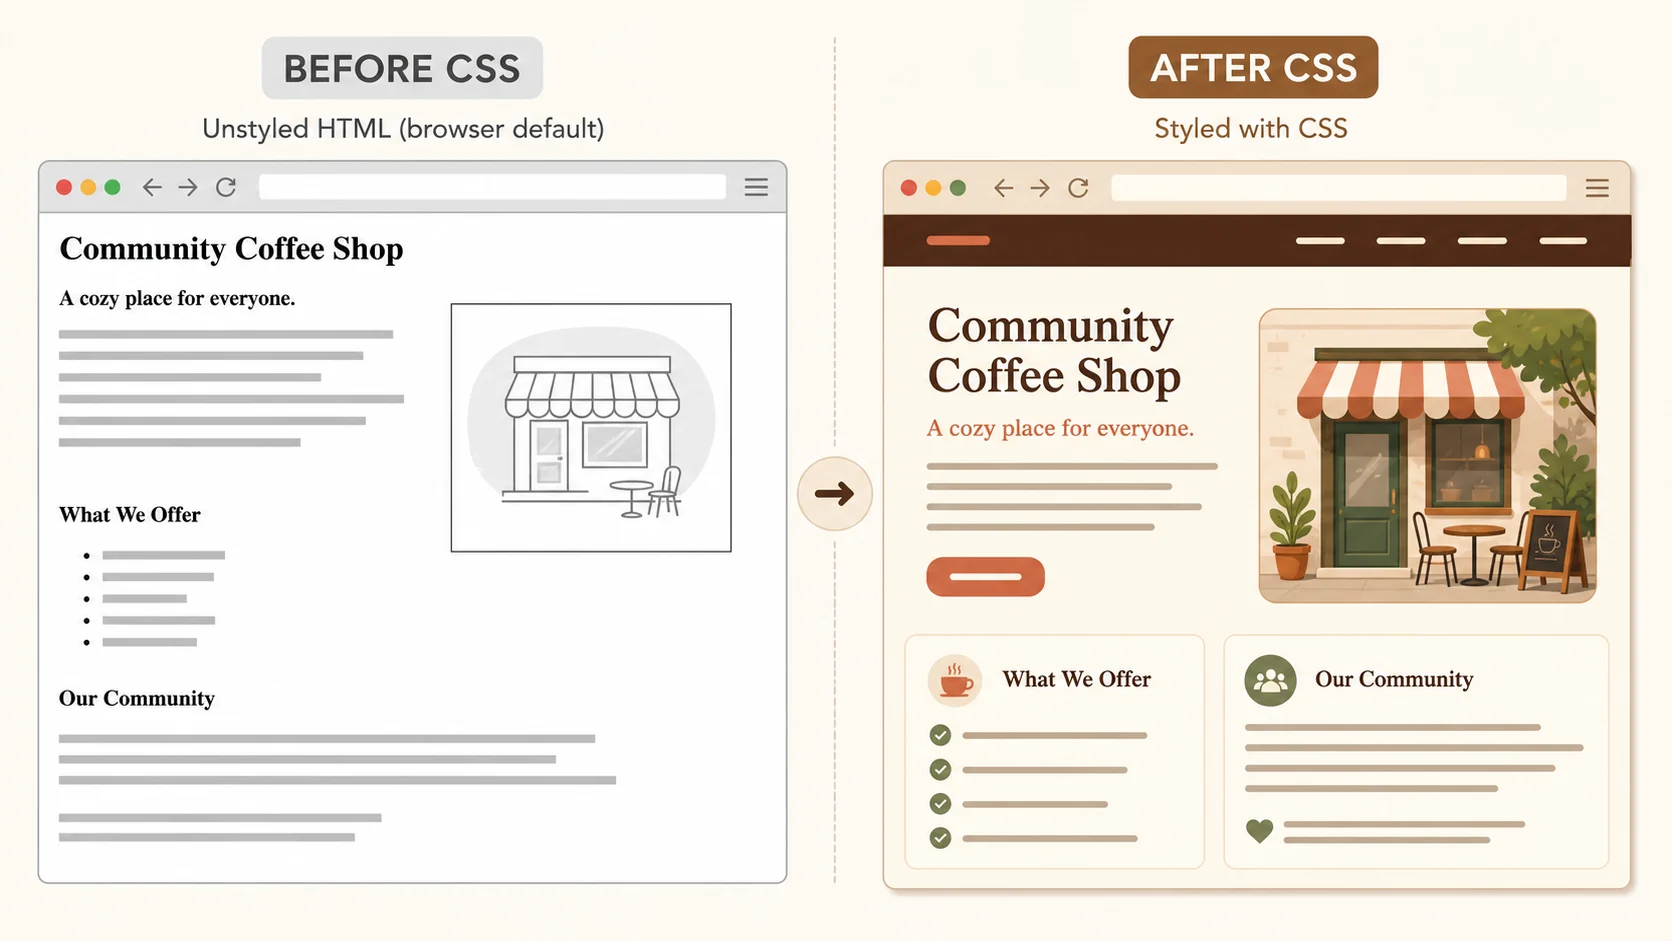
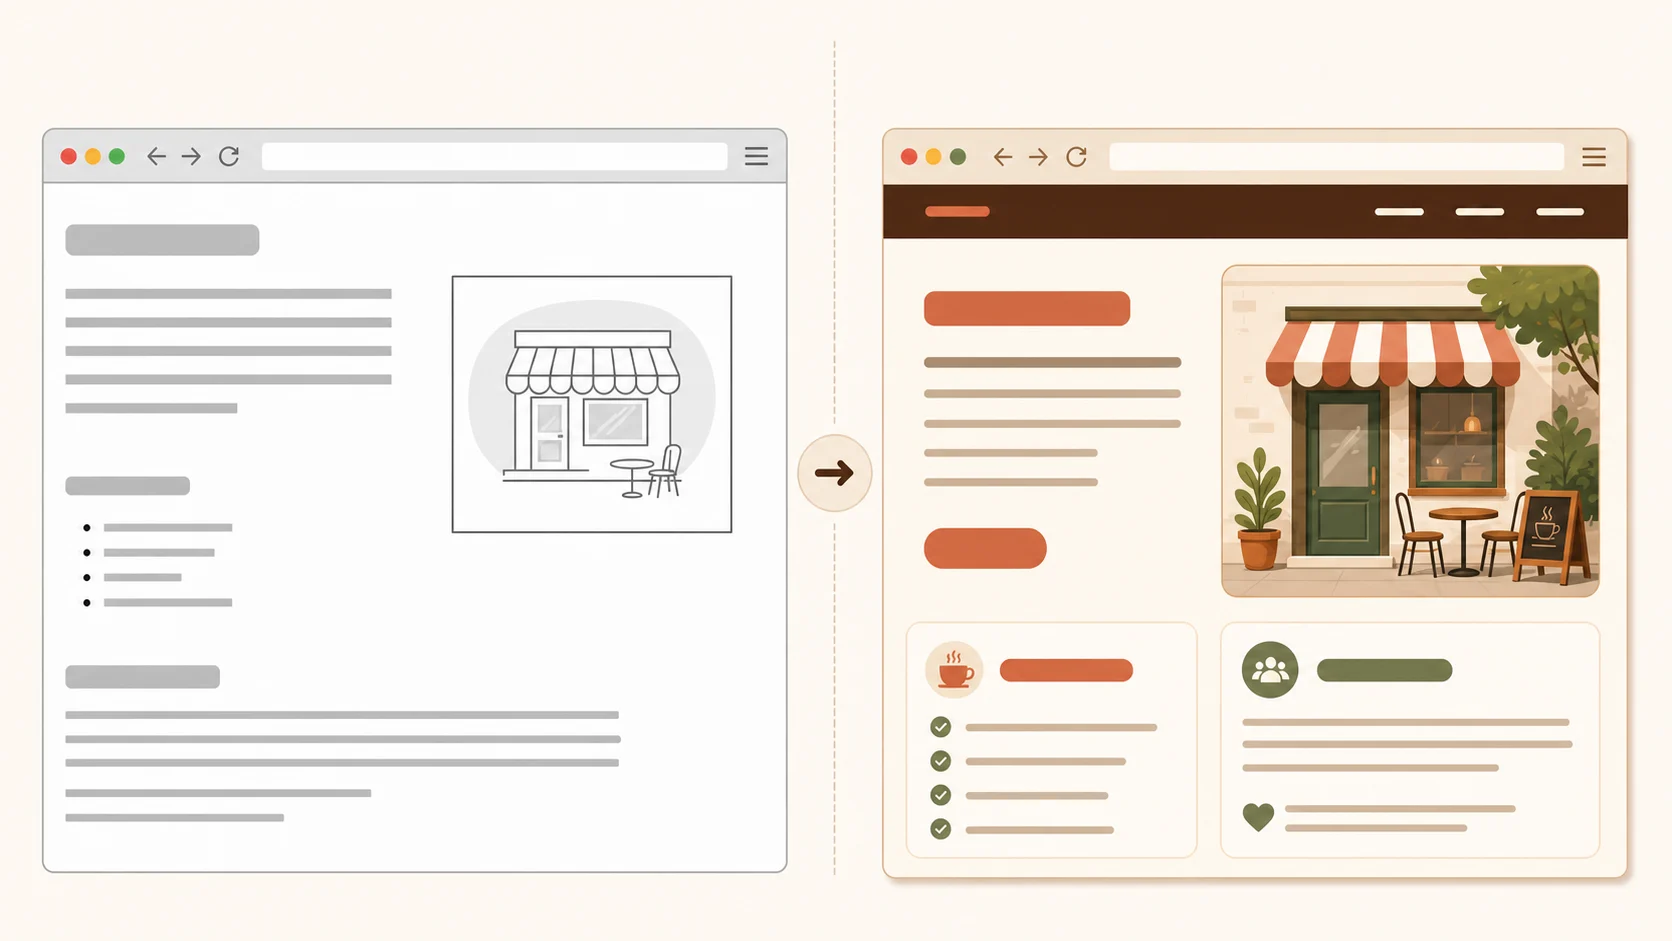
Update curriculum to enforce baseline commit workflow and prevent fabricated Git history
- Clarify in AGENTS.md, ARCHITECTURE.md, and CONTRIBUTING.md that "กาแฟบ้านดอย" remains constant in teaching lessons; brand customization happens only in the explicit Capstone without creating a second project
- Revise git/commit.md to create one baseline commit named "Import workshop website baseline" that reflects actual workshop state, with two additional commits coming from real Capstone work rather

diff --git a/docs/git/commit.md b/docs/git/commit.md
@@ -4,11 +4,11 @@ title: git commit และ git log
 
 # `git commit`: สร้างจุดบันทึกที่อธิบายได้
 
-> **บทเรียนหลัก (Core)** — เป้าหมายสุดท้ายคืออย่างน้อย 3 commit ที่สะท้อนพัฒนาการจริง
+> **บทเรียนหลัก (Core)** — บทนี้สร้าง baseline ที่ตรงกับสถานะจริง ส่วนอีก 2 commit จะเกิดจากงาน Capstone จริง
 
 ## เป้าหมาย
 
-เมื่อจบบทนี้ คุณจะตั้งผู้เขียน สร้าง commit ตรวจประวัติ และทำ milestone เพิ่มจนได้อย่างน้อย 3 จุดบันทึก
+เมื่อจบบทนี้ คุณจะตั้งผู้เขียน สร้าง baseline commit ตรวจประวัติ และวางจุดบันทึกอีก 2 จุดสำหรับงาน Capstone
 
 ## เริ่มจาก
 
@@ -26,7 +26,7 @@ git config --global user.email "[email redacted]"
 สร้าง commit แรก:
 
 ```bash
-git commit -m "Create semantic shop page"
+git commit -m "Import workshop website baseline"
 git status
 git log --oneline
 ```
@@ -34,45 +34,39 @@ git log --oneline
 ผลลัพธ์จะมีรหัส commit ที่ต่างกันในแต่ละเครื่อง:
 
 ```text
-[main a1b2c3d] Create semantic shop page
+[main a1b2c3d] Import workshop website baseline
 On branch main
 nothing to commit, working tree clean
-a1b2c3d (HEAD -> main) Create semantic shop page
+a1b2c3d (HEAD -> main) Import workshop website baseline
 ```
 
-### สร้าง milestone ที่ 2 และ 3
+### วาง milestone ที่ 2 และ 3 ไว้ในงานจริง
 
-หาก HTML และ CSS ทำเสร็จก่อนเริ่ม Git แล้ว ให้แก้ชิ้นงานเล็กน้อยแต่มีความหมายในแต่ละรอบ เช่น ปรับสี/spacing แล้วปรับ mobile layout จากนั้นใช้วงจรเดิม:
+อย่าแก้ CSS เพื่อสร้างประวัติย้อนหลัง หลังเรียน GitHub และ push แล้ว ให้ทำ [Capstone](/workshop/project) เป็นสองช่วงและ commit เมื่อแต่ละช่วงผ่าน checkpoint:
 
-```bash
-git diff
-git add style.css
-git diff --cached
-git commit -m "Style shop layout"
+```text
+ช่วงที่ 1 เปลี่ยนชื่อ คำโปรย เมนู และช่องทางติดต่อ
+→ Customize brand content
+
+ช่วงที่ 2 ปรับสี ระยะห่าง ภาพ และ responsive layout
+→ Refine theme and mobile layout
 ```
 
-แก้ media query หรือภาพให้ไม่ล้นจอ แล้วบันทึกอีกครั้ง:
-
-```bash
-git diff
-git add style.css
-git commit -m "Improve mobile layout"
-git log --oneline --decorate -3
-```
+เมื่อทำครบแล้วจึงตรวจประวัติจริงด้วย `git log --oneline --decorate -3` และ push รอบสุดท้าย
 
 ::: info Commit ที่ดีมีขอบเขตเดียว
-ข้อความ `Update files` ไม่บอกเหตุผล ส่วน `Improve mobile layout` บอกผู้ตรวจได้ว่าควรคาดหวังการเปลี่ยนแปลงชนิดใด
+ข้อความ `Update files` ไม่บอกเหตุผล ส่วน `Customize brand content` บอกผู้ตรวจได้ว่าควรคาดหวังการเปลี่ยนแปลงชนิดใด
 :::
 
 ## ผลที่ควรเห็น
 
-`git log --oneline --decorate -3` แสดงอย่างน้อย 3 บรรทัด และบรรทัดบนสุดมี `(HEAD -> main)`
+หลังจบบทนี้ `git log --oneline` แสดง baseline 1 บรรทัด หลังจบ Capstone จะแสดงอย่างน้อย 3 บรรทัด และบรรทัดบนสุดมี `(HEAD -> main)`
 
 ## Checkpoint
 
 - [ ] `git status` แสดง `working tree clean`
-- [ ] `git log --oneline -3` มีอย่างน้อย 3 commit
-- [ ] แต่ละข้อความอธิบายงานหนึ่งเรื่อง ไม่ใช่ `test`, `update` หรือ `final`
+- [ ] baseline ใช้ชื่อ `Import workshop website baseline` ซึ่งตรงกับสิ่งที่บันทึกจริง
+- [ ] จดแผน commit อีก 2 จุดสำหรับงาน Capstone โดยไม่สร้างการเปลี่ยนแปลงปลอม
 
 หากเห็น `nothing to commit` ในเวลาที่คาดว่ามีงาน ให้ดู [Nothing to commit](/workshop/troubleshooting#nothing-to-commit)
 
@@ -80,4 +74,3 @@ git log --oneline --decorate -3
 
 - [Git 2.54: git-commit](https://git-scm.com/docs/git-commit)
 - [Git 2.54: git-log](https://git-scm.com/docs/git-log)
-

diff --git a/docs/git/push.md b/docs/git/push.md
@@ -39,15 +39,15 @@ branch 'main' set up to track 'origin/main'.
 
 ```bash
 git status
-git log --oneline --decorate -3
+git log --oneline --decorate -1
 ```
 
 `git status` ควรบอกว่า branch อัปเดตตรงกับ `origin/main` และ log ควรเห็น `origin/main` ที่ commit ล่าสุด
 
-จากนั้นเปิดหน้า repository ของตนเองแล้วตรวจหลักฐาน:
+จากนั้นเปิดหน้า repository ของตนเองแล้วตรวจ baseline:
 
 - เห็น `index.html`, `style.css` และโฟลเดอร์รูป
-- เปิดประวัติ commit แล้วเห็นอย่างน้อย 3 commit
+- เปิดประวัติ commit แล้วเห็น `Import workshop website baseline`
 - ข้อความ commit ตรงกับ `git log` ในเครื่อง
 
 ::: tip ครั้งต่อไปใช้วงจรสั้น
@@ -56,24 +56,34 @@ git log --oneline --decorate -3
 
 ### เมื่อยืนยันตัวตนไม่ผ่าน
 
-GitHub ไม่รับรหัสผ่านบัญชีเป็นรหัสผ่าน Git ผ่าน HTTPS ให้ใช้ browser-based authentication ผ่าน Git Credential Manager หรือ GitHub CLI ตามที่ผู้สอนเตรียมไว้ หากเครือข่ายล่ม ให้ส่งหลักฐาน `git log --oneline -3` ก่อนและ push ภายหลัง—commit ในเครื่องยังอยู่ครบ
+GitHub ไม่รับรหัสผ่านบัญชีเป็นรหัสผ่าน Git ผ่าน HTTPS ให้ใช้ browser-based authentication ผ่าน Git Credential Manager หรือ GitHub CLI ตามที่ผู้สอนเตรียมไว้ หากเครือข่ายล่ม ให้เก็บ local commit ไว้และ push ภายหลัง—commit ในเครื่องยังอยู่ครบ
 
 ดูขั้นตอนแยกตามอาการที่ [Authentication rejected](/workshop/troubleshooting#authentication-rejected)
 
 ## ผลที่ควรเห็น
 
-ไฟล์และประวัติอย่างน้อย 3 commit ปรากฏใน repository ออนไลน์ และ `git status` ระบุว่า local branch ตรงกับ `origin/main`
+ไฟล์และ baseline commit ปรากฏใน repository ออนไลน์ และ `git status` ระบุว่า local branch ตรงกับ `origin/main`
 
 ## Checkpoint
 
 - [ ] `git push -u origin main` จบโดยไม่มี `rejected` หรือ `fatal`
 - [ ] GitHub แสดงไฟล์ชิ้นงานครบ
-- [ ] GitHub แสดง commit อย่างน้อย 3 รายการ
+- [ ] GitHub แสดง baseline commit และข้อความตรงกับ local
 - [ ] ไม่มี credential, token หรือข้อมูลลับใน repository
+
+## Push รอบสุดท้ายหลัง Capstone
+
+เมื่อทำ milestone เนื้อหาและ responsive ใน [Capstone](/workshop/project) ครบแล้ว ให้ส่งอีกครั้ง:
+
+```bash
+git log --oneline -3
+git push
+```
+
+รอบนี้จึงตรวจว่า GitHub แสดงอย่างน้อย 3 commit ตรงกับ local และ commit ล่าสุดคือ `Refine theme and mobile layout`
 
 ## แหล่งอ้างอิง
 
 - [Git 2.54: git-push และ upstream branch](https://git-scm.com/docs/git-push)
 - [GitHub Docs: caching credentials in Git](https://docs.github.com/en/get-started/git-basics/caching-your-github-credentials-in-git)
 - [GitHub Docs: authentication to GitHub](https://docs.github.com/en/authentication/keeping-your-account-and-data-secure/about-authentication-to-github)
-

diff --git a/docs/css/colors-fonts.md b/docs/css/colors-fonts.md
@@ -54,6 +54,8 @@ h1 {
   background-color: var(--color-brand);
 }
 
+.site-header .brand,
+.site-header p,
 .site-header a {
   color: #ffffff;
 }
@@ -92,8 +94,8 @@ textarea:focus-visible {
 
 <script setup>
 const example = {
-  html: `<header class="site-header"><a href="#menu">ข้ามไปเมนู</a></header><main><h1>กาแฟบ้านดอย</h1><p>กาแฟจากเกษตรกรในชุมชน คั่วสดทุกสัปดาห์</p><a href="#contact">ติดต่อร้าน</a></main>`,
-  css: `:root{--paper:#fffaf2;--ink:#2f241f;--brand:#5c3317;--focus:#ffbf47}body{margin:0;background:var(--paper);color:var(--ink);font-family:system-ui,sans-serif;line-height:1.6}.site-header{padding:1rem;background:var(--brand)}.site-header a{color:#fff}main{padding:1rem}h1{color:var(--brand);font-size:clamp(2rem,5vw,3.5rem);line-height:1.2}a:focus-visible{outline:3px solid var(--focus);outline-offset:3px}`
+  html: `<header class="site-header"><h1 class="brand">กาแฟบ้านดอย</h1><p>กาแฟจากเกษตรกรในชุมชน คั่วสดทุกสัปดาห์</p><a href="#menu">ข้ามไปเมนู</a></header><main id="menu"><h2>เมนูแนะนำ</h2><p>เลือกเมล็ดกาแฟจากชุมชน</p><a href="#contact">ติดต่อร้าน</a></main>`,
+  css: `:root{--paper:#fffaf2;--ink:#2f241f;--brand:#5c3317;--focus:#ffbf47}body{margin:0;background:var(--paper);color:var(--ink);font-family:system-ui,sans-serif;line-height:1.6}.site-header{padding:1rem;background:var(--brand)}h1,h2{color:var(--brand);line-height:1.2}.site-header .brand,.site-header p,.site-header a{color:#fff}.brand{font-size:clamp(2rem,5vw,3.5rem);margin:0}main{padding:1rem}a:focus-visible{outline:3px solid var(--focus);outline-offset:3px}`
 }
 </script>
 
@@ -116,7 +118,7 @@ const example = {
 - [ ] กด `Tab` ตั้งแต่ address bar จนเข้าหน้าเว็บ เห็นกรอบโฟกัสทุกลิงก์
 - [ ] contrast checker รายงานข้อความทั่วไปอย่างน้อย 4.5:1
 - [ ] ซูม 200% แล้วหัวเรื่องไม่ชนหรือล้นการ์ด
-- [ ] เปลี่ยน `--color-brand` จุดเดียว สีหัวเรื่องและ header เปลี่ยนตาม
+- [ ] เปลี่ยน `--color-brand` จุดเดียว สีพื้น header และหัวเรื่องในเนื้อหาหลักเปลี่ยนตาม โดยชื่อร้านบน header ยังเป็นสีขาว
 
 ## แหล่งอ้างอิงมาตรฐาน
 

diff --git a/docs/git/version-control.md b/docs/git/version-control.md
@@ -43,16 +43,16 @@ title: Version Control คืออะไร
 โปรเจกต์ตัวอย่างของเราจะมีประวัติอย่างน้อยนี้:
 
 ```text
-1. Create semantic shop page
-2. Style shop layout
-3. Improve mobile layout
+1. Import workshop website baseline
+2. Customize brand content
+3. Refine theme and mobile layout
 ```
 
 แต่ละ commit ควรตอบได้ว่า “ทำอะไรสำเร็จหนึ่งเรื่อง” ไม่ใช่บันทึกตามจำนวนไฟล์
 
 ## ผลที่ควรเห็น
 
-ตอนนี้ไฟล์ยังไม่เปลี่ยนและยังไม่มี repository เราเพียงเห็นภาพว่าจะนำชิ้นงานเดิมเข้าสู่ Git อย่างไร โดยไม่สร้างโฟลเดอร์โปรเจกต์ซ้ำ
+ตอนนี้ไฟล์ยังไม่เปลี่ยนและยังไม่มี repository เราเพียงเห็นภาพว่าจะนำชิ้นงานเดิมเข้าสู่ Git เป็น baseline ที่ตั้งชื่อตรงตามความจริง แล้วสร้างอีกสอง commit จากงาน Capstone จริงโดยไม่สร้างโฟลเดอร์ซ้ำ
 
 ## Checkpoint
 

diff --git a/docs/git/github.md b/docs/git/github.md
@@ -16,10 +16,10 @@ title: เชื่อมโปรเจกต์กับ GitHub
 
 ```bash
 git status
-git log --oneline -3
+git log --oneline -1
 ```
 
-ต้องอยู่ branch `main` และมีอย่างน้อย 3 commit ตาม checkpoint ก่อนหน้า
+ต้องอยู่ branch `main` และเห็น baseline commit ชื่อ `Import workshop website baseline` หนึ่งรายการ ส่วนอีกสอง commit จะเกิดจาก Capstone หลัง push ครั้งแรก
 
 ## ลงมือทำ
 
@@ -56,7 +56,7 @@ origin  https://github.com/USERNAME/my-shop-profile.git (push)
 
 ## Checkpoint
 
-- [ ] `git log --oneline -3` ยังแสดงประวัติในเครื่อง
+- [ ] `git log --oneline -1` แสดง baseline commit ในเครื่อง
 - [ ] `git remote -v` แสดง username/repository ของตนเอง ไม่ใช่ `USERNAME`
 - [ ] อธิบายได้ว่าเพิ่ม remote แล้วยังไม่ได้ส่งไฟล์ จนกว่าจะ `push`
 
@@ -66,4 +66,3 @@ origin  https://github.com/USERNAME/my-shop-profile.git (push)
 
 - [Git 2.54: git-remote](https://git-scm.com/docs/git-remote)
 - [GitHub Docs: adding locally hosted code to GitHub](https://docs.github.com/en/migrations/importing-source-code/using-the-command-line-to-import-source-code/adding-locally-hosted-code-to-github)
-

diff --git a/docs/intro/agenda.md b/docs/intro/agenda.md
@@ -18,8 +18,8 @@ title: กำหนดการ
 | 12:00–13:00 | **พักกลางวัน 60 นาที** | — |
 | 13:00–14:15 | CSS: สี กล่อง การจัดวาง และ Responsive | หน้าไม่ล้นที่ความกว้าง 320px |
 | 14:15–14:30 | **พัก 15 นาที** | — |
-| 14:30–15:20 | Git และ GitHub | มี commit ที่มีความหมายอย่างน้อย 3 จุด |
-| 15:20–15:50 | ปรับแบรนด์และตรวจชิ้นงาน | ผ่าน rubric แบบผ่าน/แก้ไข |
+| 14:30–15:20 | Git และ GitHub | baseline 1 commit ถูก push ขึ้น GitHub |
+| 15:20–15:50 | ปรับแบรนด์และตรวจชิ้นงาน | มี 3 commit จากงานจริง, push รอบสุดท้าย และผ่าน rubric |
 | 15:50–16:00 | สรุปและถาม–ตอบ | เปิด repository และอธิบายงานตัวเองได้ |
 
 ## บทเสริมหลังจบเส้นทางหลัก
@@ -32,4 +32,3 @@ title: กำหนดการ
 ::: warning อย่ารีบข้าม checkpoint
 ถ้าผลบนหน้าจอไม่ตรงกับบท ให้หยุดแก้ก่อนเริ่มหัวข้อถัดไป เพราะทุกบทต่อยอดไฟล์ชุดเดิม
 :::
-

diff --git a/docs/ARCHITECTURE.md b/docs/ARCHITECTURE.md
@@ -77,8 +77,8 @@ quality: scripts/check-curriculum.mjs → VitePress production build
 - **Rejected:** replacing the delivery framework would not address the learner-path defects.
 
 ### 2. One cumulative learner project (17 July 2026)
-- **Decision:** every core lesson modifies the same “กาแฟบ้านดอย” project.
-- **Why:** removes snippet assembly and keeps Git attached to the actual work.
+- **Decision:** every teaching lesson modifies the same “กาแฟบ้านดอย” project; the explicit Capstone then customizes that same project and repository into the learner's brand.
+- **Why:** removes snippet assembly, keeps Git attached to the actual work, and permits authentic capstone ownership without a second project.
 - **Rejected:** unrelated business examples create unnecessary context switching.
 
 ### 3. Core versus enrichment (17 July 2026)

diff --git a/docs/git/add.md b/docs/git/add.md
@@ -45,7 +45,7 @@ A  index.html
 A  style.css
 ```
 
-ก่อน commit ให้ดูเนื้อหาที่กำลังจะบันทึกได้ด้วย:
+ก่อน commit ให้ดูเนื้อหาที่กำลังจะบันทึกเป็น **baseline ของงานจากช่วง HTML/CSS** ได้ด้วย:
 
 ```bash
 git diff --cached
@@ -77,7 +77,7 @@ git diff
 
 ## ผลที่ควรเห็น
 
-`git status --short` แสดง `A` หน้าไฟล์ทั้งหมด และ `git diff --cached --stat` สรุปสิ่งที่จะเข้า commit แรก
+`git status --short` แสดง `A` หน้าไฟล์ทั้งหมด และ `git diff --cached --stat` สรุปสิ่งที่จะเข้า commit แรกชื่อ `Import workshop website baseline` ซึ่งบอกตรง ๆ ว่าเป็นการนำงานที่ทำเสร็จก่อนเริ่ม Git เข้าสู่ประวัติ
 
 ## Checkpoint
 

diff --git a/docs/workshop/instructor-checklist.md b/docs/workshop/instructor-checklist.md
@@ -30,7 +30,8 @@ title: เช็กลิสต์สำหรับผู้สอน
 | ก่อนพักเช้า | `index.html` มี document skeleton, `lang`, title และเนื้อหาหลัก | แจก diff เฉพาะ block ที่ขาด ไม่แจกไฟล์เฉลยทั้งชุด |
 | ก่อนพักกลางวัน | semantic regions, alt decision, validator และ keyboard pass | ย้าย table/form ไป enrichment |
 | ก่อนเริ่ม Git | หน้า 320px ไม่ล้น, focus ชัด, `pwd` อยู่ `my-shop-profile` | ใช้ minimal CSS checkpoint แล้วตัด Grid |
-| หลัง commit | `git log --oneline -3` มี milestone ที่สื่อความหมาย | ให้แก้งานเล็ก 2 รอบและ commit ตามงานจริง |
+| หลังช่วง Git/GitHub | `git log --oneline -1` มี baseline และ push แรกสำเร็จหรือมีหลักฐาน local | เก็บ baseline ในเครื่องแล้วใช้ network fallback |
+| หลัง Capstone | `git log --oneline -3` มี baseline + milestone เนื้อหา + milestone responsive | กลับไปทำ checkpoint ที่ยังขาด ห้ามแก้ไฟล์เพื่อสร้างประวัติปลอม |
 | ก่อนส่ง | rubric 4 หมวดผ่านและ `git status` clean | ส่ง local evidence ก่อนหาก auth/network ล่ม |
 
 ## คำถามประวัติพร้อมคำตอบอ้างอิง
@@ -65,4 +66,3 @@ title: เช็กลิสต์สำหรับผู้สอน
 - [ ] รับหลักฐานตาม rubric ไม่ให้คะแนนจากความสวยเพียงอย่างเดียว
 - [ ] เตือนให้ลบ token ที่อาจเผลอเผยแพร่และ rotate ทันทีหากพบ
 - [ ] ชี้เส้นทางเรียนต่อจาก [สรุป](/workshop/summary) และ [แหล่งเรียนรู้](/workshop/resources)
-

diff --git a/docs/CONTRIBUTING.md b/docs/CONTRIBUTING.md
@@ -16,7 +16,8 @@
 
 ## เส้นทางชิ้นงาน
 
-- ใช้โปรเจกต์ `my-shop-profile` และแบรนด์ “กาแฟบ้านดอย” ต่อเนื่องทุกบทหลัก
+- ใช้โปรเจกต์ `my-shop-profile` และแบรนด์ “กาแฟบ้านดอย” ต่อเนื่องในบทสอนทั้งหมด เพื่อให้โค้ดสะสมตรงกัน
+- เปลี่ยนชื่อแบรนด์และเนื้อหาได้เฉพาะช่วง Capstone ซึ่งระบุให้ผู้เรียนปรับชิ้นงานเป็นของตนเองอย่างชัดเจน โดยยังใช้ไฟล์และ repository เดิม
 - HTML สะสมใน `index.html`, CSS สะสมใน `style.css`, Git เริ่มในโฟลเดอร์เดิม
 - โค้ดที่แสดงต้อง copy แล้วให้ผลเดียวกับ preview ห้ามใช้ path หรือ asset ที่ไม่มีจริง
 - หน้า Core ต้องทำได้ในเวลาตาม agenda; Forms, Tables, Grid และ Clone เป็น Enrichment

diff --git a/AGENTS.md b/AGENTS.md
@@ -6,7 +6,7 @@ This repository is a Thai-language, one-day beginner curriculum for HTML, CSS, G
 
 - Treat `docs/` as the only canonical curriculum. `archive/workshop-html-css-git-v1.md` is frozen legacy and is not rendered (`archive/README.md:1-8`).
 - Keep all learner-facing prose in Thai. Explain an English technical term on first use and keep executable code/commands in their native syntax (`docs/CONTRIBUTING.md:1-31`).
-- Preserve the cumulative learner path: `my-shop-profile/index.html` → `style.css` → Git in that same directory. Do not switch brands or invent a second project (`docs/CONTRIBUTING.md:17-22`).
+- Preserve the cumulative learner path: `my-shop-profile/index.html` → `style.css` → Git in that same directory. Keep “กาแฟบ้านดอย” in teaching lessons; learner brand customization is allowed only in the explicit Capstone, without creating a second project (`docs/CONTRIBUTING.md:17-23`).
 - Every core lesson must retain headings for เป้าหมาย, สถานะเริ่มต้น/เริ่มจาก, ลงมือ, ผลที่ควรเห็น, and Checkpoint; the checker enforces them (`scripts/check-curriculum.mjs:119-161`).
 - Keep Tables, Forms, CSS Grid, and `git clone` labeled as enrichment; they are outside the 09:00–16:00 core path (`docs/intro/agenda.md:5-34`).
 - Code shown to learners must copy-run with the same result as its preview. Put public assets under `docs/public/` and verify every route/asset (`docs/CONTRIBUTING.md:17-31`, `scripts/check-curriculum.mjs:42-81`).